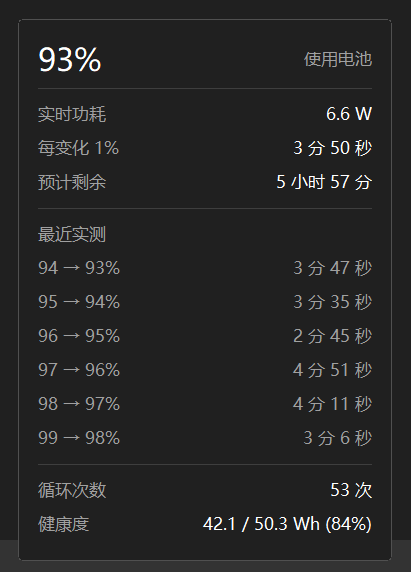
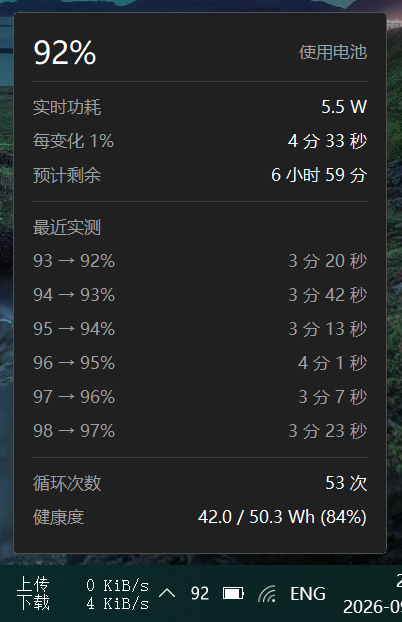
fix: repair six correctness defects found in code review
- battery log: a failed write clears the session state it disables, so
  re-enabling cannot write a step spanning the disabled stretch
- info panel: the rate window restarts when the current reverses instead
  of averaging a discharge against a charge
- battery power: a failed GetSystemPowerStatus is marked invalid rather
  than passed off as 100% on battery; callers skip the tick
- tray icon: a failed font fit drops the font and baseline with it, so
  render() draws nothing instead of the old DPI's em in a new bitmap
- info panel: the manufacture date is cleared with the device handle
- info panel: class registration tolerates ERROR_CLASS_ALREADY_EXISTS

Specification 2.2 / 2.3 / 2.8 / 2.10.1 / 2.10.4 updated to match; the
fixed entries are dropped from TODO.md.

diff --git a/src/battery_log.cpp b/src/battery_log.cpp
@@ -137,6 +137,14 @@ void BatteryLog::start(const BatteryState& state) {
     observe(state);
 }
 
+void BatteryLog::disable() noexcept {
+    enabled_ = false;
+    last_percent_ = -1;
+    marked_ms_ = 0;
+    pending_ = false;
+    asleep_ = false;
+}
+
 void BatteryLog::stop() {
     if (!enabled_) {
         return;
@@ -144,10 +152,7 @@ void BatteryLog::stop() {
     // The last reading observed: nobody hands one in on the way out, and the
     // battery cannot have moved since without the log hearing about it.
     write_line(percent_text(last_percent_), L"结束记录");
-    enabled_ = false;
-    last_percent_ = -1;
-    pending_ = false;
-    asleep_ = false;
+    disable();
 }
 
 void BatteryLog::observe(const BatteryState& state) {
@@ -177,15 +182,20 @@ void BatteryLog::observe(const BatteryState& state) {
         const std::wstring elapsed =
             measured ? format_duration_compact((now - marked_ms_) / 1000.0) : std::wstring();
         // A directory that turned read-only mid-run disables logging instead of
-        // retrying on every battery change.
-        enabled_ = write_line(step_text(last_percent_, state.percent), elapsed);
+        // retrying on every battery change, and takes the step in progress with
+        // it: what elapsed while the log was off is not a step anyone measured.
+        if (!write_line(step_text(last_percent_, state.percent), elapsed)) {
+            disable();
+            return;
+        }
         marked_ms_ = now;
         pending_ = true; // a percent transition is a legitimate starting point
     } else {
         pending_ = false; // whatever was in flight straddles the state change
     }
-    if (state_moved && enabled_) {
-        enabled_ = write_line(percent_text(state.percent), charge_state_text(state.charge));
+    if (state_moved && !write_line(percent_text(state.percent), charge_state_text(state.charge))) {
+        disable();
+        return;
     }
 
     last_percent_ = state.percent;
@@ -196,7 +206,10 @@ void BatteryLog::note_suspend(const BatteryState& state) {
     if (!enabled_) {
         return;
     }
-    enabled_ = write_line(percent_text(state.percent), L"进入睡眠");
+    if (!write_line(percent_text(state.percent), L"进入睡眠")) {
+        disable();
+        return;
+    }
     suspend_ms_ = GetTickCount64();
     suspend_percent_ = state.percent;
     pending_ = false; // the interval in progress is about to span the sleep
@@ -221,7 +234,10 @@ void BatteryLog::note_resume(const BatteryState& state) {
     } else {
         event += L"电量未变";
     }
-    enabled_ = write_line(percent_text(state.percent), event);
+    if (!write_line(percent_text(state.percent), event)) {
+        disable();
+        return;
+    }
 
     // Resync instead of letting observe() see the jump: what the sleep cost is
     // on the line above, and a "100 -> 94%" under it would claim a step that

diff --git a/src/info_panel.cpp b/src/info_panel.cpp
@@ -75,7 +75,10 @@ bool InfoPanel::ensure_window() {
     window_class.hInstance = instance_;
     window_class.lpszClassName = kPanelClassName;
     window_class.hCursor = LoadCursorW(nullptr, IDC_ARROW);
-    if (!RegisterClassExW(&window_class)) {
+    // Tolerated rather than guarded by a flag: this runs again whenever the
+    // first CreateWindowExW failed, and treating the class left behind by that
+    // attempt as an error would keep the panel down for the rest of the process.
+    if (!RegisterClassExW(&window_class) && GetLastError() != ERROR_CLASS_ALREADY_EXISTS) {
         return false;
     }
 
@@ -129,8 +132,7 @@ void InfoPanel::show() {
     dpi_ = GetDpiForWindow(window_);
     ensure_fonts();
 
-    rate_count_ = 0; // the window from the last time the panel was up is stale
-    rate_index_ = 0;
+    reset_rate_window(); // whatever was in it dates from the last time the panel was up
     sample();
     relayout();
 
@@ -156,11 +158,21 @@ void InfoPanel::hide() {
     visible_ = false;
     hidden_ms_ = GetTickCount64();
     device_.close();
+    date_ = {}; // read from the device, so it dies with the handle
     has_sample_ = false;
 }
 
+void InfoPanel::reset_rate_window() noexcept {
+    rate_count_ = 0;
+    rate_index_ = 0;
+    rate_direction_ = 0;
+}
+
 void InfoPanel::sample() {
-    state_ = query_battery_state();
+    const BatteryState state = query_battery_state();
+    if (state.valid) {
+        state_ = state; // a failed read is not a reading; the panel keeps the last one
+    }
 
     if (!device_ && device_.open()) {
         // Static fields are read once per opening, never in the tick.
@@ -171,10 +183,23 @@ void InfoPanel::sample() {
     if (!device_.read_sample(fresh)) {
         // The tag dies with a hot swap, and a stale handle never recovers.
         device_.close();
+        date_ = {};
         has_sample_ = false;
-        rate_count_ = 0;
-        rate_index_ = 0;
+        reset_rate_window();
         return;
+    }
+
+    // Plugging the charger in with the panel open otherwise averages -11 W
+    // against +30 W into a charge rate that never happened, and a window that
+    // happens to cancel out takes the whole power section off screen for six
+    // seconds. A zero is not a direction of its own -- it is either a real lull
+    // or an unknown rate -- so only a reversal starts the window over.
+    const int direction = fresh.rate_mw > 0 ? 1 : (fresh.rate_mw < 0 ? -1 : 0);
+    if (direction != 0) {
+        if (rate_direction_ != 0 && direction != rate_direction_) {
+            reset_rate_window();
+        }
+        rate_direction_ = direction;
     }
 
     sample_ = fresh;

diff --git a/src/main.cpp b/src/main.cpp
@@ -207,12 +207,21 @@ LRESULT App::handle_message(UINT message, WPARAM wparam, LPARAM lparam) {
             // interval either way; the log does need one, since eight hours
             // missing from the file is exactly what its two lines are for.
             history_.discard_pending();
-            log_.note_suspend(query_battery_state());
+            // Same as refresh(): no reading, no line. A suspend line left out
+            // leaves the resume with nothing to pair against, which is what
+            // note_resume() already handles for a resume that follows no suspend.
+            const BatteryState state = query_battery_state();
+            if (state.valid) {
+                log_.note_suspend(state);
+            }
         } else if (wparam == PBT_APMRESUMEAUTOMATIC) {
             // Every resume delivers this one. PBT_APMRESUMESUSPEND comes only
             // when a person woke the machine, so handling both would write the
             // pair of lines twice for half of all wake-ups.
-            log_.note_resume(query_battery_state());
+            const BatteryState state = query_battery_state();
+            if (state.valid) {
+                log_.note_resume(state);
+            }
         }
         return TRUE;
 
@@ -285,6 +294,14 @@ void App::remove_tray_icon() {
 
 void App::refresh(bool force) {
     const BatteryState state = query_battery_state();
+    // A failed read is not a reading. Its defaults spell "100%, on battery", so
+    // passing it on would flash FL in the tray, clear the measured steps and
+    // write a step that never happened into the log. The next power event brings
+    // a real one; a forced refresh (startup, explorer restart, DPI change) simply
+    // leaves the icon as it was until then.
+    if (!state.valid) {
+        return;
+    }
     // Fed unconditionally: the ring itself ignores readings that did not move,
     // and it has to keep filling while the panel is closed - that is what makes
     // the elapsed steps there worth anything the moment it opens.
@@ -333,12 +350,17 @@ void App::refresh(bool force) {
 }
 
 void App::refresh_tooltip() {
+    const BatteryState state = query_battery_state();
+    if (!state.valid) {
+        return; // the tip already there is seconds stale; an invented one is wrong
+    }
+
     NOTIFYICONDATAW data{};
     data.cbSize = sizeof(data);
     data.hWnd = window_;
     data.uID = kTrayIconId;
     data.uFlags = NIF_TIP | NIF_SHOWTIP;
-    set_tooltip(data, query_battery_state());
+    set_tooltip(data, state);
     Shell_NotifyIconW(NIM_MODIFY, &data);
 }
 

diff --git a/src/info_panel.h b/src/info_panel.h
@@ -59,6 +59,7 @@ private:
     void hide();
 
     void sample();
+    void reset_rate_window() noexcept;
     void build_rows();
     [[nodiscard]] int scale(int dip) const { return MulDiv(dip, static_cast<int>(dpi_), 96); }
     [[nodiscard]] int row_height(RowStyle style) const;
@@ -97,6 +98,10 @@ private:
     long rate_window_[kRateWindow]{};
     int rate_index_ = 0;
     int rate_count_ = 0;
+    // Which way the samples in the window flow: +1 charging, -1 discharging, 0
+    // while nothing but zeroes has been seen. Averaging across a reversal would
+    // produce a wattage that never occurred, so the window starts over instead.
+    int rate_direction_ = 0;
     long rate_mw_ = 0;
 
     std::vector<Row> rows_;

diff --git a/src/tray_icon.cpp b/src/tray_icon.cpp
@@ -66,6 +66,14 @@ void IconRenderer::ensure_font(UINT dpi) {
         return;
     }
 
+    // Dropped before the sizes move, because the fit below can come up empty:
+    // render() decides there is nothing to draw by looking at font_ alone, and
+    // an old one left in place would be drawn at the previous DPI's em, with its
+    // baseline, into a bitmap of the new size. A failed fit is retried on the
+    // next render, which is the only work left on that path anyway.
+    font_.reset();
+    baseline_ = 0;
+
     // The tray scales its icons with DPI, so the em size has to follow instead
     // of being a constant tuned at 100%.
     icon_width_ = GetSystemMetricsForDpi(SM_CXSMICON, dpi);

diff --git a/src/battery_power.cpp b/src/battery_power.cpp
@@ -52,10 +52,11 @@ const wchar_t* charge_state_text(ChargeState charge) {
 
 BatteryState query_battery_state() {
     SYSTEM_POWER_STATUS status{};
-    if (!GetSystemPowerStatus(&status)) {
-        return {};
-    }
     BatteryState state;
+    if (!GetSystemPowerStatus(&status)) {
+        state.valid = false;
+        return state;
+    }
     // Like the original, treat "unknown" as full rather than showing nothing.
     state.percent = status.BatteryLifePercent == 255 ? 100 : static_cast<int>(status.BatteryLifePercent);
     // Charging comes from BatteryFlag, not from ACLineStatus: the line stays

diff --git a/src/battery_power.h b/src/battery_power.h
@@ -24,6 +24,10 @@ const wchar_t* charge_state_text(ChargeState charge);
 struct BatteryState {
     int percent = 100; // 255 ("unknown", what a machine with no battery reports) becomes 100
     ChargeState charge = ChargeState::Discharging;
+    // False when the call itself failed. The other two fields then hold defaults
+    // that read exactly like "full, on battery", which is a reading nobody took;
+    // callers skip the tick instead of believing it.
+    bool valid = true;
 };
 
 BatteryState query_battery_state();

diff --git a/src/battery_log.h b/src/battery_log.h
@@ -34,6 +34,12 @@ public:
     void note_resume(const BatteryState& state);
 
 private:
+    // The one way logging stops, whether the user unchecked it or a write
+    // failed: the step in progress and the sleep in progress belong to a session
+    // that has ended, and leaving them behind would let the next start() measure
+    // a step across the whole disabled stretch.
+    void disable() noexcept;
+
     bool enabled_ = false;
 
     int last_percent_ = -1; // negative until the first reading is observed

diff --git a/docs/specification.md b/docs/specification.md
@@ -54,6 +54,10 @@ CPU/内存占用、不含调试信息**的原生实现。
 - 调用 `RegisterPowerSettingNotification(hwnd, &GUID_BATTERY_PERCENTAGE_REMAINING, DEVICE_NOTIFY_WINDOW_HANDLE)`，在**电量百分比变化**时收到 `WM_POWERBROADCAST` 的 `PBT_POWERSETTINGCHANGE`。
 - 同时处理 `WM_POWERBROADCAST` 的 `PBT_APMPOWERSTATUSCHANGE`，覆盖**插拔电源/充电状态变化**。
 - 收到上述任一事件时调用 `GetSystemPowerStatus` 读取最新状态并刷新托盘图标 —— 做到**立即刷新**，最坏延迟由系统事件决定，而非固定 5s。
+- **`GetSystemPowerStatus` 失败就跳过这一拍**：它失败时的返回与「100%、使用电池」这个真实读数
+  长得一模一样，当成真值会让托盘跳 `FL`、清空「最近实测」，还往日志里写下一条从未发生过的步进
+  和一行状态行。没读到就是没读到 —— 不刷图标、不更新 tooltip、不写日志、不入环形缓冲，
+  等下一个电源事件。启动/`TaskbarCreated`/DPI 变化那几次强制刷新同理，图标就先保持原样。
 - 启动时先主动刷新一次作为初始状态。
 - 退出前 `UnregisterPowerSettingNotification`。
 - 空闲态不得有任何轮询循环或周期性定时器占用 CPU。
@@ -80,6 +84,9 @@ CPU/内存占用、不含调试信息**的原生实现。
   - **这三个常量（90% / 2 倍 / gamma 2.2）是一组，不是三个独立旋钮**：超采样倍数变了要重新找 gamma（倍数越大峰值越低、要的 gamma 越大），两者变了都要复校边距比例。改任何一个都得把另外两个再对一遍。
   - 校准是在**深色任务栏 + 白字**下做的。浅色主题的黑字方向相反，同一条曲线会让它偏粗一点点；实测可接受，故不按主题分两套值。
 - 电量 = `round(BatteryLifePercent * 100)`。**当电量 > 99 时显示为 `FL`**（表示满电 Full），否则显示整数百分比。
+- **拟合不出字号就不出图标**（字体建不出来，或最小一档也放不下）：托盘保留上一个图标，
+  绝不拿旧 DPI 的字号和基线往新尺寸的位图上画 —— 那画出来是错位或被裁掉的字，比不更新更糟。
+  字号、基线与位图尺寸是一组状态，拟合失败时必须整组失效。
 - 文字在图标位图内**居中**（不写死 2px 偏移那种按固定尺寸调出来的经验值，随字号/DPI 动态居中）。
 - **抗锯齿用灰度而非 ClearType**：图标背景透明（alpha 通道），而 ClearType 是亚像素渲染、假设背景不透明，用在透明位图上会在字符边缘产生彩色毛边。用 `ANTIALIASED_QUALITY`（灰度抗锯齿），边缘干净且与任意任务栏背景兼容。
   - 这也是托盘文字**无法**和任务栏时钟完全一致的根本原因，与实现无关：ClearType 每像素带三个子像素的覆盖率，而 alpha 通道每像素只有一个数，信息装不下。要装下就得放弃透明、自己画上任务栏底色，而任务栏可能半透明并透出壁纸，颜色实时变化，取不到也画不对。上面的超采样与 gamma 是在保持透明的前提下能追平的部分（亚像素定位、笔画重量），剩下的锐度差是这个前提本身的代价。
@@ -217,6 +224,8 @@ CPU/内存占用、不含调试信息**的原生实现。
 - **写入方式：同步 open-append-close，不用后台线程/队列。** 由于刷新已是事件驱动，日志写入是稀有事件（电量变化通常数分钟一次），每次事件里同步「打开→追加一行→关闭」即可，耗时微秒级、不卡 UI。这样无跨线程共享，从根本上消除「写已关闭句柄」的竞态（比线程+队列更简单也更健壮），不独占文件，用户可随时查看，退出时也无需特殊 flush/关闭逻辑。
 - **大小上限 512KB，单文件滚动**：每次追加前检查 `BatteryTray.log` 大小，若写入后将超过 512KB，则先把它重命名覆盖为 `BatteryTray.log.old`（`MoveFileEx` + `MOVEFILE_REPLACE_EXISTING`），再新建 `BatteryTray.log` 继续写。最多保留两个文件（当前 + 一个 `.old`），总量约 1MB，且都在 exe 目录内。
 - **写失败要容错**：若 exe 目录不可写（如放在 `Program Files`），打开/写入会失败——此时**静默禁用日志、取消菜单勾选**，绝不崩溃，也**不得**改写到别的目录作为兜底。
+  写失败禁用时**要把会话状态一并清掉**（上次读数、进行中的那一格、睡眠标记），否则重新勾选后的
+  第一格会带上一个横跨整个禁用期的时长，违反 [2.8.1](#281-行格式)「开启日志后的第一格不写时长」。
 - **时间戳用固定格式** `yyyy-MM-dd HH:mm:ss`（本地时间），不用区域相关的本地化默认格式——固定格式稳定、可排序、跨机器一致。
 
 #### 2.8.1 行格式
@@ -369,8 +378,13 @@ CPU/内存占用、不含调试信息**的原生实现。
   超出这个区间要么是驱动在瞎报、要么电池已经出事，哪种都不该显示。
 - **不要拿 `MSAcpi_ThermalZoneTemperature` 顶替**：那是 CPU / 主板热区不是电池温度，数值差得远，
   而且要走 WMI。这条路走不通，别再试。
+- **滑动平均只在同一个方向上取**：电流方向翻转（面板开着插上充电器）时窗口清空重来，否则 -11 W 与
+  +30 W 会平均成一个从未出现过的读数，正负恰好抵消时整个功率区连分隔线一起消失又出现。
+  速率为 0 不算一个方向（它既可能是真的没有电流，也可能是驱动报的 `BATTERY_UNKNOWN_RATE`），
+  只有真正的反向才重置。
 - **静态与动态分开**：循环次数、设计容量、出厂日期在面板打开时读一次；只有功率、剩余容量、温度进每 2 秒的
-  重采路径。
+  重采路径。**静态字段随句柄一起作废**：丢句柄（热拔、IOCTL 失败）或关面板时和动态字段一样清零，
+  不能只清一半，留下一行上一块电池的出厂日期。
 - **面板可见期间保持设备句柄**，不每个 tick 都 `CreateFile` / `CloseHandle`。代价是电池热插拔后 tag 会
   失效，所以 IOCTL 一失败就丢掉句柄重开，不假设它一直有效。
 
@@ -407,6 +421,9 @@ CPU/内存占用、不含调试信息**的原生实现。
   再次单击关闭。跟系统自己的电量图标一致 —— 那个也是单击就弹。
 - **形态**：`WS_POPUP | WS_EX_TOOLWINDOW | WS_EX_TOPMOST`，无标题栏，圆角靠 `SetWindowRgn` 裁形状 +
   自绘边框。不进任务栏、不进 Alt+Tab。
+  - 窗口是**首次单击时才创建**的，而 `CreateWindowEx` 万一失败下次单击还会再来一遍，
+    那时 `RegisterClassEx` 会以 `ERROR_CLASS_ALREADY_EXISTS` 失败。**这个错误码要当成成功**
+    （或用一次性标志只注册一次），否则一次偶发失败就让面板在本进程内再也起不来。
   - **圆角半径取小的一档（3 dip）**。`SetWindowRgn` 是一位裁剪，弧上没有抗锯齿，半径越大台阶越多、
     越显得是「自己画的圆」；小到两三个像素时更接近「磨掉直角」而不是圆角，台阶无从看起。
     要更大的圆角就得换掉裁剪这条路（Windows 11 的 `DWMWA_WINDOW_CORNER_PREFERENCE` 由合成器画、

diff --git a/TODO.md b/TODO.md
@@ -3,36 +3,7 @@
 两轮代码审查（`/code-review` 最后一次提交 + 全项目）合并去重后的待修清单，按严重度排序。
 勾掉一条就删掉或标记，修完的改动记得同步 `docs/specification.md`。
 
-## 正确性
-
-- [ ] **日志写失败后的状态残留** — `src/battery_log.cpp:181`
-      写入失败时只置 `enabled_ = false`，没清 `last_percent_` / `pending_` / `marked_ms_`。
-      重新勾选日志后 `start() → observe()` 会写出一条横跨整个禁用期的假电量行并附上时长，
-      违反规格 2.8.1「开启日志后的第一格不写时长」。`stop()` 有清理，失败路径漏了。
-
-- [ ] **功率滑动平均不在电流反向时重置** — `src/info_panel.cpp:182`
-      窗口只在设备掉线（`device_.close()`）时重置。面板开着插上充电器，会把 -11 W 和 +30 W
-      平均成「充电功率 2.7 W」这种从未出现过的读数，持续约 6 秒；正负恰好抵消时
-      整个功率区连分隔线一起消失又出现。
-
-- [ ] **`GetSystemPowerStatus` 失败伪装成满电** — `src/battery_power.cpp:56`
-      失败返回 `{}`，即 100% + Discharging，和真实读数无法区分。一次瞬时失败会让托盘跳 `FL`、
-      清空「最近实测」环，并往日志里永久写下 `62% -> 100%` 和一条「使用电池」状态行。
-      需要一个「读数无效」的表示，让上层跳过这一拍而不是当作真值。
-
-- [ ] **字号拟合失败时位图与字体状态不一致** — `src/tray_icon.cpp:112`
-      `ensure_font()` 先更新 `icon_width_` / `width_` / `height_`，拟合失败却不更新
-      `font_` / `baseline_`。`render()` 只判 `!font_`，于是会用旧 DPI 的字号和越界基线
-      画进新尺寸位图，输出错位/裁切，而不是预期的「不出图标」。
-
-- [ ] **出厂日期在设备掉线后不清** — `src/info_panel.cpp:165`
-      `date_` 在 `device_.close()`、`hide()` 和采样失败路径上都不清。电池热拔后
-      `facts_` / `has_sample_` 都正确归零，唯独「出厂日期」一行留着旧值，且跨多次开关面板持续存在。
-
-- [ ] **窗口类重复注册导致面板永久失效** — `src/info_panel.cpp:78`
-      `ensure_window()` 每次都 `RegisterClassExW`。首次 `CreateWindowExW` 偶发失败后，
-      后续重试卡在 `ERROR_CLASS_ALREADY_EXISTS`，面板在本进程内再也起不来。
-      注册应只做一次（静态标志），或容忍 `ERROR_CLASS_ALREADY_EXISTS`。
+「正确性」一节的 6 条已全部修完并同步了规格（2.2 / 2.3 / 2.8 / 2.10.1 / 2.10.4），整节删去。
 
 ## 图标工具与光栅器
 
